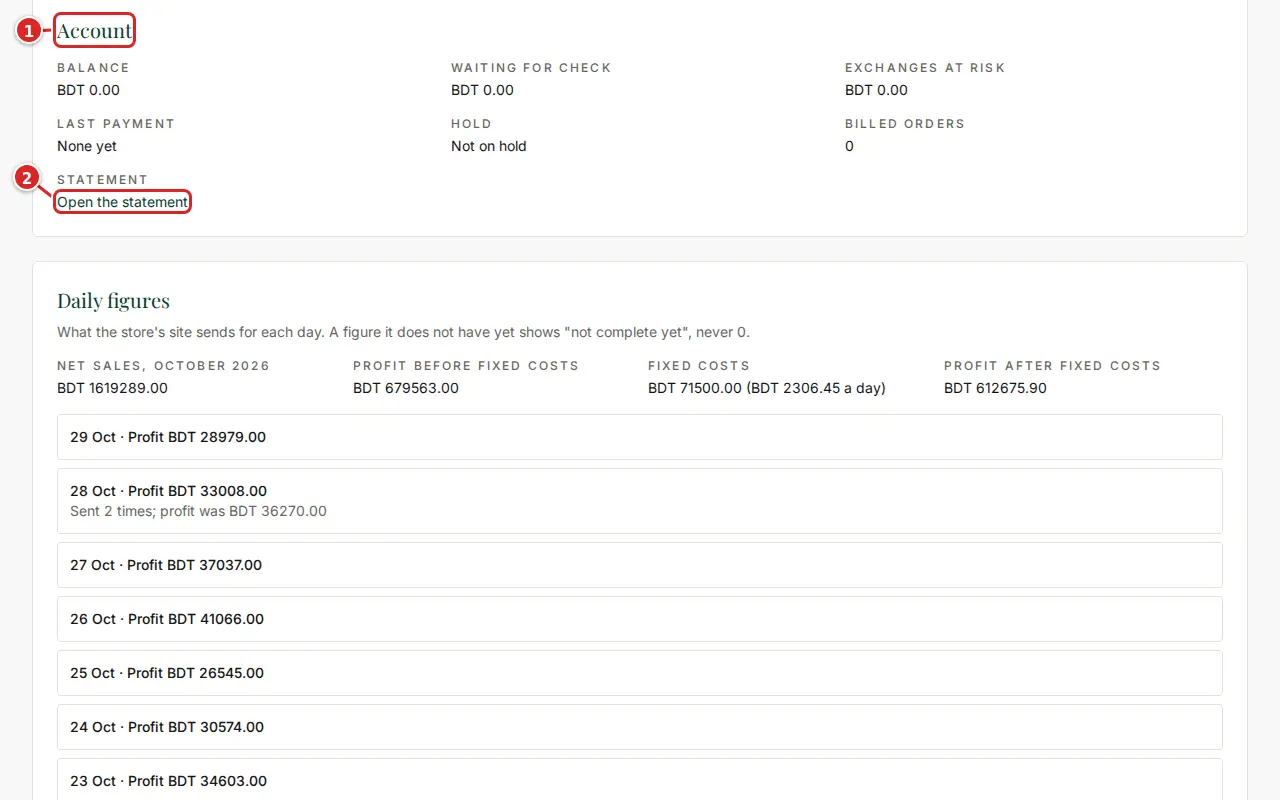
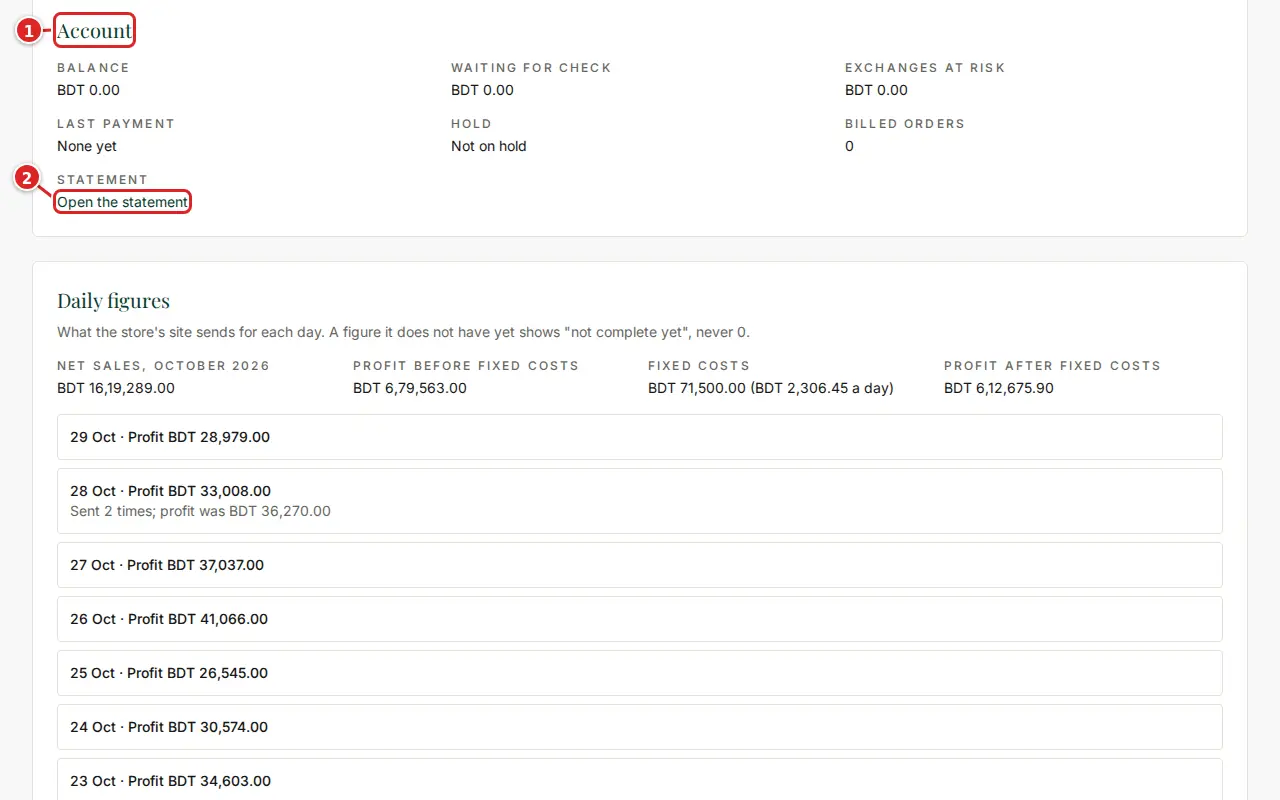
Business screens group amounts the company's way (as the PDFs), PDF bars stay narrow for one or two months; pictures retaken
Claude-Session: https://claude.ai/code/session_01RKMVSrCq3pU5yCGC1dztxv

diff --git a/src/components/business/store-books.tsx b/src/components/business/store-books.tsx
@@ -9,6 +9,7 @@ import { Fact, Panel } from "@/components/sales/detail-bits";
 import { FormDialog } from "@/components/sales/dialogs";
 import { Button } from "@/components/ui/button";
 import { Input } from "@/components/ui/input";
+import { groupAmount } from "@/lib/display";
 import type { StoreBooks as Books } from "@/modules/retail/summaries.service";
 import {
   copyLastMonthBudgetAction,
@@ -66,7 +67,8 @@ export function StoreBooks({
   const close = () => setDialog(null);
   const month = monthName(books.month);
   const so = books.monthSoFar;
-  const money = (v: string | null) => (v === null ? "-" : `${currency} ${v}`);
+  const g = (v: string | number) => groupAmount(Number(v).toFixed(2), currency);
+  const money = (v: string | null) => (v === null ? "-" : `${currency} ${g(v)}`);
 
   return (
     <>
@@ -86,7 +88,7 @@ export function StoreBooks({
           <Fact label="Profit before fixed costs">{money(so.netProfit)}</Fact>
           <Fact label="Fixed costs">
             {books.fixed ? (
-              `${currency} ${books.fixed.total.toFixed(2)} (${currency} ${books.fixed.perDay} a day)`
+              `${currency} ${g(books.fixed.total)} (${currency} ${g(books.fixed.perDay)} a day)`
             ) : (
               <span className="text-destructive">Fixed costs for {month} not in yet</span>
             )}
@@ -105,7 +107,7 @@ export function StoreBooks({
             {books.days.map((d) => (
               <li key={d.date} className="rounded-md border p-3 text-sm">
                 <p className="font-medium">
-                  {dayName(d.date)} · Profit {currency} {d.netProfit}
+                  {dayName(d.date)} · Profit {currency} {g(d.netProfit)}
                 </p>
                 {d.incomplete.length > 0 && (
                   <p className="text-amber-700 dark:text-amber-400">
@@ -114,12 +116,12 @@ export function StoreBooks({
                 )}
                 {!d.profitMatches && (
                   <p className="text-destructive">
-                    The sum does not match: the ERP gets {currency} {d.checkedProfit}
+                    The sum does not match: the ERP gets {currency} {g(d.checkedProfit)}
                   </p>
                 )}
                 {d.previousProfit !== null && (
                   <p className="text-muted-foreground">
-                    Sent {d.versions} times; profit was {currency} {d.previousProfit}
+                    Sent {d.versions} times; profit was {currency} {g(d.previousProfit)}
                   </p>
                 )}
               </li>
@@ -162,8 +164,8 @@ export function StoreBooks({
           {books.budget.map((b) => (
             <Fact key={b.line} label={LINE[b.line]!}>
               <span className={STATE[b.state]}>
-                {currency} {b.spent}
-                {b.budget !== null ? ` of ${b.budget}` : " (no budget)"}
+                {currency} {g(b.spent)}
+                {b.budget !== null ? ` of ${g(b.budget)}` : " (no budget)"}
               </span>
             </Fact>
           ))}
@@ -183,7 +185,7 @@ export function StoreBooks({
       >
         <p className="mt-4 text-sm">
           {books.target
-            ? `${month}: ${currency} ${books.target.done} of ${currency} ${books.target.sales} (${books.target.percent}%)`
+            ? `${month}: ${currency} ${g(books.target.done)} of ${currency} ${g(books.target.sales)} (${books.target.percent}%)`
             : `No target for ${month}.`}
         </p>
       </Panel>

diff --git a/src/components/business/dashboard-bits.tsx b/src/components/business/dashboard-bits.tsx
@@ -7,6 +7,7 @@ import { Amount } from "@/components/accounts/privacy";
 import { Button } from "@/components/ui/button";
 import { Input } from "@/components/ui/input";
 import { NativeSelect } from "@/components/ui/native-select";
+import { groupAmount } from "@/lib/display";
 import { cn } from "@/lib/utils";
 
 /*
@@ -94,13 +95,13 @@ function Change({ change, currency }: { change: string; currency: string }) {
   if (n === 0) return <span className="text-muted-foreground">Same as the period before</span>;
   return (
     <span className={n > 0 ? "text-emerald-700 dark:text-emerald-400" : "text-destructive"}>
-      {n > 0 ? "Up" : "Down"} {currency} {money(String(Math.abs(n)))} on the period before
+      {n > 0 ? "Up" : "Down"} {currency} {money(String(Math.abs(n)), currency)} on the period before
     </span>
   );
 }
 
-export const money = (v: string) =>
-  Number(v).toLocaleString("en-US", { minimumFractionDigits: 2, maximumFractionDigits: 2 });
+/** An amount grouped the way the company's currency is (BDT: 1,24,500.00), as on the PDFs. */
+export const money = (v: string, currency: string) => groupAmount(Number(v).toFixed(2), currency);
 
 /** One big figure: its label, the amount (red when below 0) and the change on the period before. */
 export function BigCard({
@@ -120,7 +121,7 @@ export function BigCard({
   plain?: boolean;
 }) {
   const negative = Number(value) < 0;
-  const shown = plain ? value : `${currency} ${money(value)}`;
+  const shown = plain ? value : `${currency} ${money(value, currency)}`;
   return (
     <div
       className={cn(

diff --git a/src/components/business/ecommerce-screen.tsx b/src/components/business/ecommerce-screen.tsx
@@ -81,13 +81,13 @@ export function EcommerceScreen({ page }: { page: EcommercePage }) {
                   <dl className="mt-2 grid grid-cols-2 gap-x-3 gap-y-1">
                     <dt className="text-muted-foreground">Net sales</dt>
                     <dd className="text-right tabular-nums">
-                      <Amount>{money(s.sales)}</Amount>
+                      <Amount>{money(s.sales, currency)}</Amount>
                     </dd>
                     <dt className="text-muted-foreground">Profit or loss</dt>
                     <dd
                       className={`text-right tabular-nums ${Number(s.profit) < 0 ? "text-destructive" : ""}`}
                     >
-                      <Amount>{money(s.profit)}</Amount>
+                      <Amount>{money(s.profit, currency)}</Amount>
                     </dd>
                     <dt className="text-muted-foreground">Profit rate</dt>
                     <dd className="text-right tabular-nums">
@@ -95,7 +95,7 @@ export function EcommerceScreen({ page }: { page: EcommercePage }) {
                     </dd>
                     <dt className="text-muted-foreground">Owes the ERP</dt>
                     <dd className="text-right tabular-nums">
-                      <Amount>{money(s.owes)}</Amount>
+                      <Amount>{money(s.owes, currency)}</Amount>
                     </dd>
                   </dl>
                   {s.incomplete.length > 0 && (

diff --git a/src/components/business/overview-screen.tsx b/src/components/business/overview-screen.tsx
@@ -124,7 +124,8 @@ export function OverviewScreen({ page }: { page: OverviewPage }) {
                   <p className="text-muted-foreground">{when(c.at)}</p>
                   <p>
                     <Amount>
-                      Was {currency} {money(c.was)}, now {currency} {money(c.now)}
+                      Was {currency} {money(c.was, currency)}, now {currency}{" "}
+                      {money(c.now, currency)}
                     </Amount>
                   </p>
                   {c.lines.length > 0 && (
@@ -132,7 +133,8 @@ export function OverviewScreen({ page }: { page: OverviewPage }) {
                       {c.lines.map((l) => (
                         <li key={l.figure}>
                           <Amount>
-                            {FIGURE[l.figure] ?? l.figure}: {money(l.was)} to {money(l.now)}
+                            {FIGURE[l.figure] ?? l.figure}: {money(l.was, currency)} to{" "}
+                            {money(l.now, currency)}
                           </Amount>
                         </li>
                       ))}

diff --git a/src/components/business/store-dashboard.tsx b/src/components/business/store-dashboard.tsx
@@ -50,7 +50,7 @@ export function StoreDashboard({
   currency: string;
   storeId: string;
 }) {
-  const cash = (v: string | null) => (v === null ? "-" : `${currency} ${money(v)}`);
+  const cash = (v: string | null) => (v === null ? "-" : `${currency} ${money(v, currency)}`);
   // How fast pieces go: per day of the period (of the days sent, for Lifetime).
   const days =
     d.period.key === "all"
@@ -129,7 +129,7 @@ export function StoreDashboard({
                 <span className="block text-muted-foreground">
                   <Amount>
                     {Object.entries(d.ads.byPlatform)
-                      .map(([p, v]) => `${PLATFORM[p] ?? p} ${money(v)}`)
+                      .map(([p, v]) => `${PLATFORM[p] ?? p} ${money(v, currency)}`)
                       .join(", ")}
                   </Amount>
                 </span>

diff --git a/src/modules/documents/render.ts b/src/modules/documents/render.ts
@@ -989,7 +989,8 @@ class Writer {
     const bottom = Math.min(0, ...values);
     const scale = height / (top - bottom);
     const zero = this.y + top * scale;
-    const slot = this.width / Math.max(1, block.rows.length);
+    // At most a thick bar per row: one or two months never fill the page with one block.
+    const slot = Math.min(48, this.width / Math.max(1, block.rows.length));
     const bar = Math.max(1, (slot - 4) / block.series.length);
     block.rows.forEach((r, i) => {
       r.values.forEach((v, k) => {
